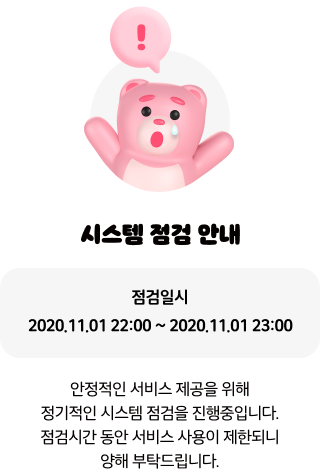
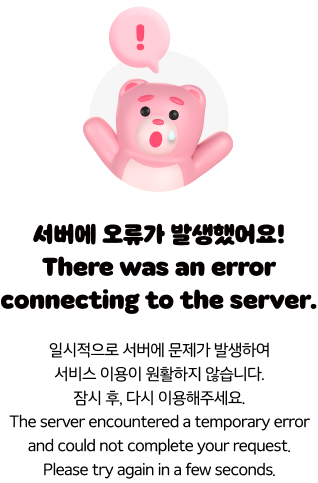
404&시스템점검 페이지 작업/지갑연결버튼 태그수정

diff --git a/components/Header.vue b/components/Header.vue
@@ -53,7 +53,7 @@
       <div class="etc-link">
         <ul class="sns">
           <li class="link0">
-            <a href="#" target="_blank"></a>
+            <button>지갑연결</button>
           </li>
           <li class="link1" @click="sendGaEvent('gnb_shop', 'GNB')">
             <a href="https://bellygom.com/" target="_blank"></a>
@@ -80,9 +80,9 @@
             @click="openLang"
             :class="{ on: this.showLang }"
           >
-          <span class="txt">
-              {{ $store.getters.getLocale }}
-          </span>
+            <span class="txt">
+                {{ $store.getters.getLocale }}
+            </span>
           </button>
           <transition name="fade">
             <div class="lang-list" v-if="this.showLang">
@@ -234,7 +234,7 @@ export default {
         li {
           display: inline-flex;
           position: relative;
-          a {
+          a,button {
             width: 48px;
             height: 48px;
             display: block;
@@ -295,6 +295,7 @@ export default {
                 margin-left: 0;
                 margin-top: 5px;
               }
+              button,
               a {
                 width: auto;
                 height: auto;
@@ -315,10 +316,13 @@ export default {
             border-radius: 100%;
             background: $white;
             box-shadow: 0 4px 10px rgba(0, 0, 0, 0.03);
+
           }
           &.link0 {
-            a {
+            button {
               position: relative;
+              text-indent: -9999em;
+              font-size: 0;
               &::before {
                 content: "";
                 position: absolute;

diff --git a/pages/systemMaintenance.vue b/pages/systemMaintenance.vue
@@ -1,22 +1,12 @@
 <template>
   <div id="errorWrapper">
     <span class="img-text">
-        <template v-if="$store.getters.getLocale === 'ENG'">
-         <img v-if="$mq === 'pc'"
-              src="@/assets/images/main/img_error_belly02_eng.png"
-         />
-         <img v-else
-              src="@/assets/m_images/main/img_error_belly02_eng.png"
-         />
-        </template>
-        <template v-else>
-           <img v-if="$mq === 'pc'"
-                src="@/assets/images/main/img_error_belly02.png"
-           />
-           <img v-else
-                src="@/assets/m_images/main/img_error_belly02.png"
-           />
-        </template>
+       <img v-if="$mq === 'pc'"
+            src="@/assets/images/main/img_error_belly02.png"
+       />
+       <img v-else
+            src="@/assets/m_images/main/img_error_belly02.png"
+       />
     </span>
   </div>
 </template>
@@ -25,14 +15,6 @@
 export default {
   props: ['error'],
   layout: 'errorLayout',
-  mounted() {
-    let locale = this.getCookie("b_locale");
-    if (locale && locale === "KOR") {
-      this.$store.commit("setKOR");
-    } else {
-      this.$store.commit("setENG");
-    }
-  },
 }
 </script>
 
@@ -59,12 +41,18 @@ export default {
   .img-text {
     display: inline-block;
     width: 21%;
-    max-width: 404px;
+    max-width: 715px;
     margin: auto;
     img {
       width: 100%;
     }
   }
 }
-
+@media screen and (max-width: 768px) {
+  #errorWrapper {
+    .img-text {
+      width: 40%;
+    }
+  }
+}
 </style>

diff --git a/layouts/error.vue b/layouts/error.vue
@@ -15,14 +15,6 @@
 export default {
   props: ['error'],
   layout: 'errorLayout',
-  mounted() {
-    let locale = this.getCookie("b_locale");
-    if (locale && locale === "KOR") {
-      this.$store.commit("setKOR");
-    } else {
-      this.$store.commit("setENG");
-    }
-  },
 }
 </script>
 
